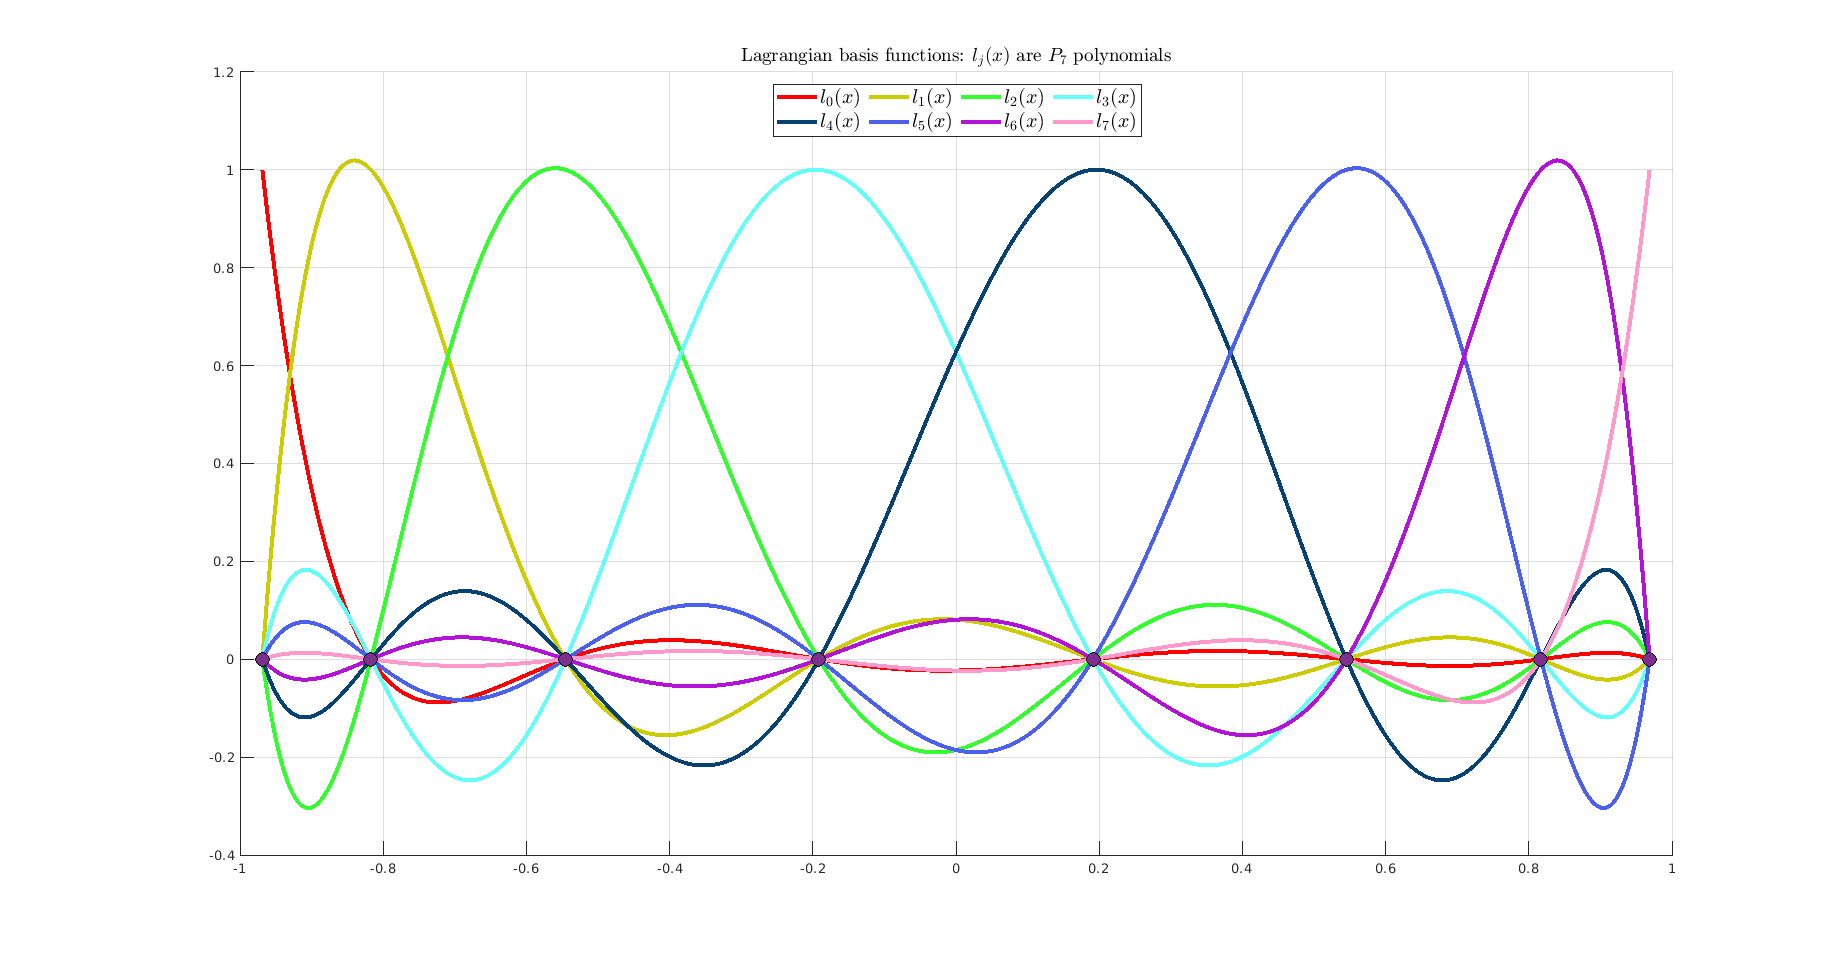
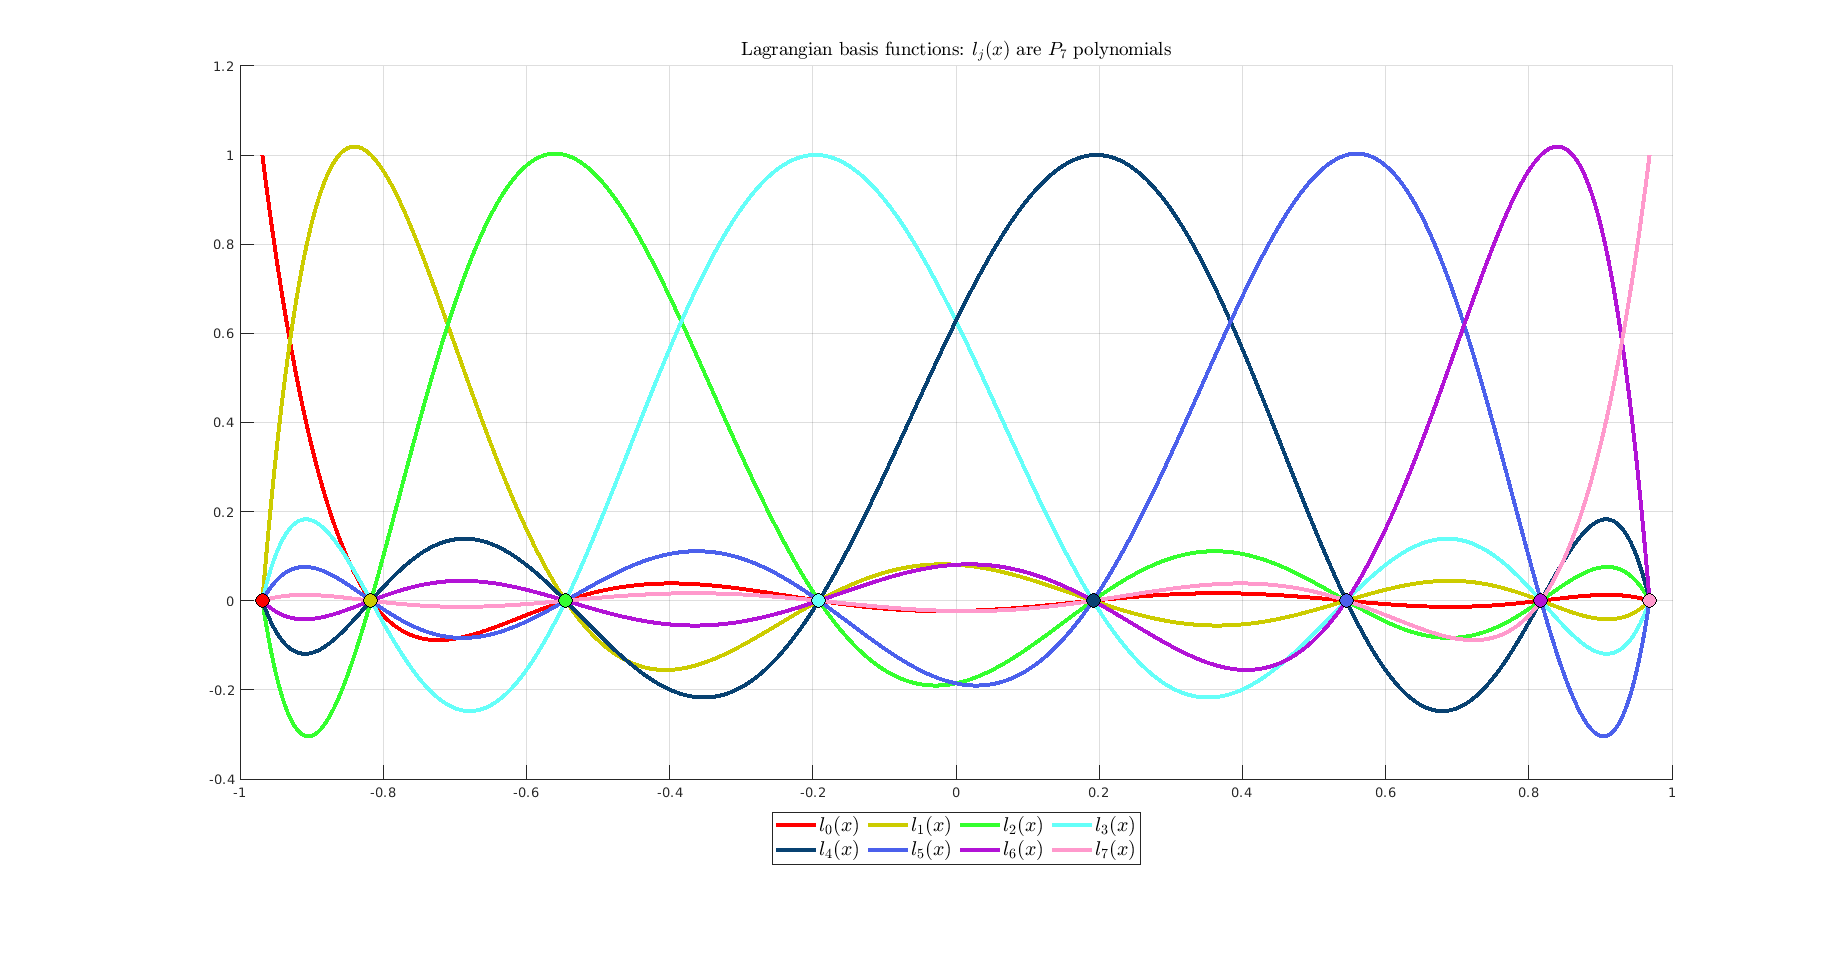
Change color Lagrangian nodes to be the same of the corresponding basis function

diff --git a/lagrange.m b/lagrange.m
@@ -34,7 +34,9 @@ function basis = lagrange(nodes)
             grid on
             p(n)=plot(x,polynomials, 'LineWidth', 3, 'color', color(n,:), 'DisplayName',sprintf('$ l_{%d}(x) $', n-1));
         end
-        plot(nodes, zeros(length(nodes)), 'o','MarkerSize',10, 'MarkerEdgeColor','k','MarkerFaceColor','#7E2F8E')
+        for n=1:N
+            plot(nodes(n), 0, 'o','MarkerSize',10, 'MarkerEdgeColor', 'k', 'MarkerFaceColor', color(n,:));
+        end
 
         leg = legend(p,'Interpreter', 'latex','Orientation','horizontal','NumColumns',4);
         set(leg, 'Location', 'bestoutside', 'FontSize', 15);
